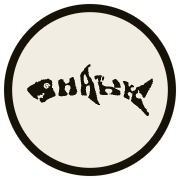
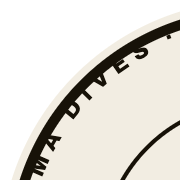
The full stamp is the mark, everywhere (#20)
The stripped-down ring was my invention and it was wrong: it dropped OSAMA DIVES and the ring text and left a heavy bare circle. There is one mark now, the full stamp, on the favicon, the phone icon, the floating badge, the review seals and the review landing page. The seal is sized up so the stamp can be read.

diff --git a/src/app/logbook/logbook.css b/src/app/logbook/logbook.css
@@ -358,8 +358,8 @@
 /* Osama's seal: the stamp mark on the hero and on every signed page */
 .lb-hero__seal { width: 132px; height: 132px; border-radius: 50%; box-shadow: 0 10px 28px rgba(20, 40, 36, 0.14); }
 .lb-page { position: relative; }
-.lb-page__seal { position: absolute; right: 0.9rem; bottom: 0.9rem; width: 44px; height: 44px; opacity: 0.92; transform: rotate(-9deg); pointer-events: none; }
-.lb-page--single .lb-page__seal { width: 56px; height: 56px; }
+.lb-page__seal { position: absolute; right: 0.9rem; bottom: 0.9rem; width: 62px; height: 62px; opacity: 0.95; transform: rotate(-9deg); pointer-events: none; }
+.lb-page--single .lb-page__seal { width: 78px; height: 78px; }
 
 /* The preview follows the reader down the form on wide screens */
 .lb-preview { position: sticky; top: 5.5rem; align-self: start; }

diff --git a/src/app/review/page.tsx b/src/app/review/page.tsx
@@ -36,7 +36,7 @@ export default function ReviewLanding() {
         />
         <main style={{ minHeight: "100vh", display: "grid", placeItems: "center", padding: "2rem", textAlign: "center" }}>
           <div style={{ display: "grid", gap: "1rem", justifyItems: "center" }}>
-            <img src="/brand/stamp-small-512.png" alt="" width={88} height={88} />
+            <img src="/brand/stamp-512.png" alt="" width={88} height={88} />
             <p style={{ margin: 0, fontSize: "1.1rem" }}>Opening the review form...</p>
             <Link href={FORM} style={{ color: "#0d7d70", fontWeight: 700 }}>
               Tap here if it does not open

diff --git a/src/app/logbook/PageCard.tsx b/src/app/logbook/PageCard.tsx
@@ -40,7 +40,7 @@ export default function PageCard({ entry, number, variant = "wall", inkStamp = f
         </div>
       ) : null}
       <p className="lb-page__note">{entry.note || "Your note to Osama will sit here, in your words."}</p>
-      <img src="/brand/stamp-small-512.png" alt="Signed by Osama" width={44} height={44} className="lb-page__seal" />
+      <img src="/brand/stamp-512.png" alt="Signed by Osama" width={62} height={62} className="lb-page__seal" />
       {entry.reply ? (
         <div className="lb-page__reply">
           <span className="lb-page__reply-who" aria-hidden="true">Osama</span>

diff --git a/src/components/FloatingBadge.tsx b/src/components/FloatingBadge.tsx
@@ -16,7 +16,7 @@ export default function FloatingBadge() {
       {/* Badge container - circular with background to hide any transparency issues */}
       <div className="relative w-20 h-20 md:w-28 md:h-28 lg:w-32 lg:h-32 drop-shadow-2xl transform group-hover:scale-110 transition-transform duration-300 rounded-full overflow-hidden bg-[#F2EDE2]">
         <Image
-          src="/brand/stamp-small-512.png"
+          src="/brand/stamp-512.png"
           alt="OsamaDives stamp: Shark family, Dahab, since 1983"
           fill
           className="object-cover"
